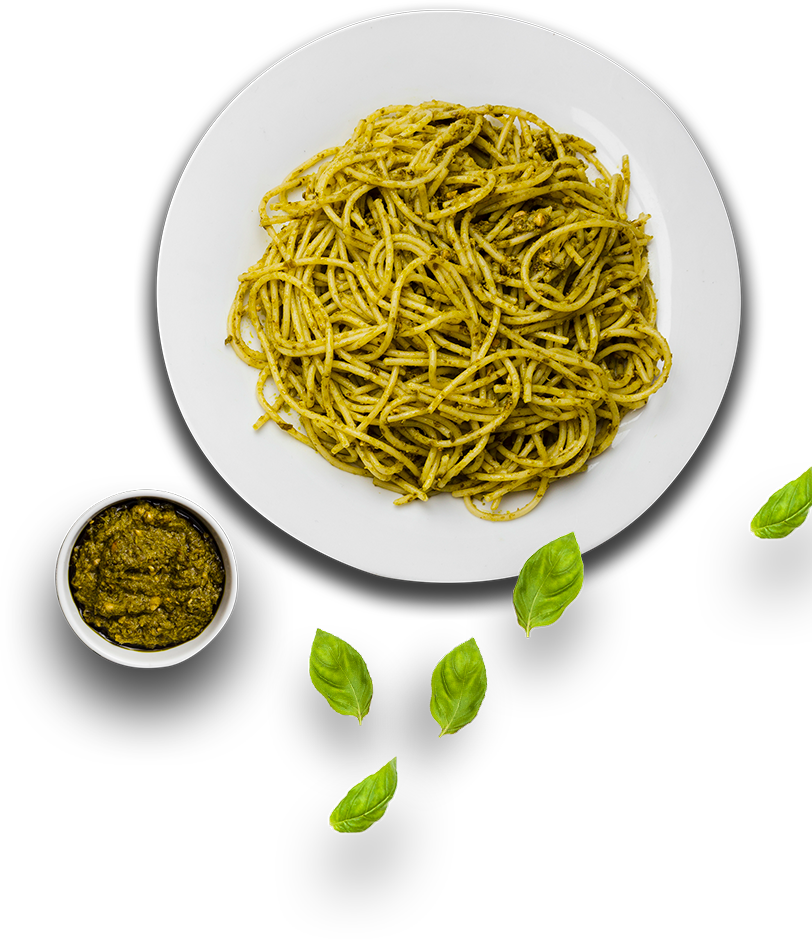
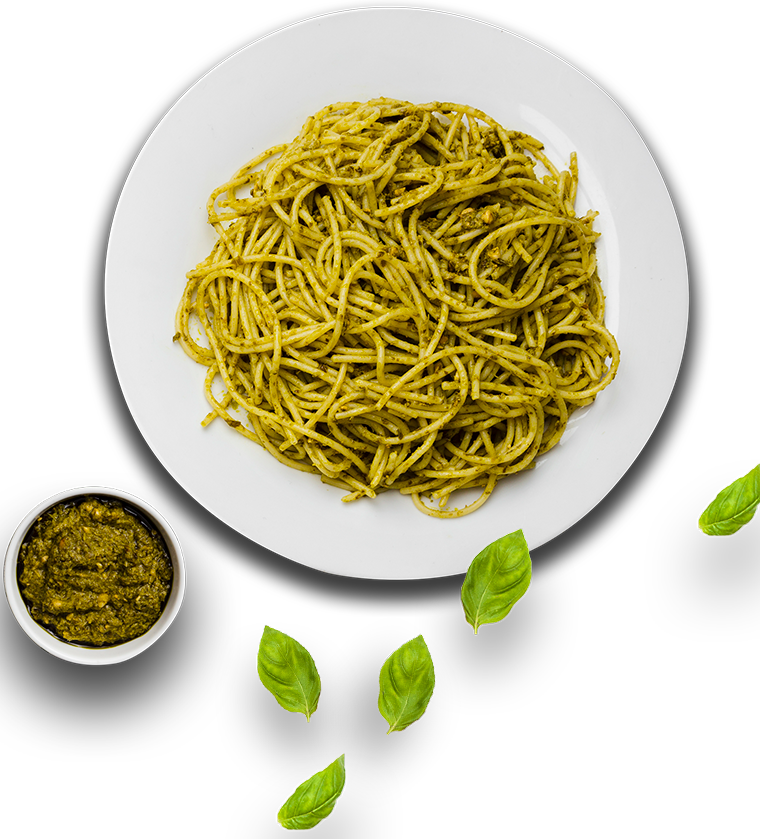
flex-box

diff --git a/index.html b/index.html
@@ -6,6 +6,7 @@
     <meta name="viewport" content="width=device-width, initial-scale=1.0">
 
     <!--config-->
+    <link rel="stylesheet" href="CSS/config/reset.css">
     <link rel="stylesheet" href="CSS/config/normalize.css">
     <!--FONTS-->
     <link rel="preconnect" href="https://fonts.googleapis.com">
@@ -19,15 +20,18 @@
 <body>
     <section class="background-container">
         <div class="header">
-            <ul class="menu">
-                <li class="menu-item"><a href="">HOME</a></li>
-                <li class="menu-item"><a href="">MENU</a></li>
-                <li class="menu-item"><a href="">OUR STORY</a></li>
-                <li class="menu-item"><a href="">CONTACT US</a></li>
-            </ul>
-            <div class="search">
-                <input type="text" class="searchText" placeholder="Search..." />
-                <img src="assets/search.png" id="img-search" alt="search"/>
+            <div class="menu-container">
+                <ul class="menu">
+                    <li class="menu-item"><a href="">HOME</a></li>
+                    <li class="menu-item"><a href="">MENU</a></li>
+                    <li class="menu-item"><a href="">OUR STORY</a></li>
+                    <li class="menu-item"><a href="">CONTACT US</a></li>
+                </ul>
+                <div class="search">
+                    <input type="text" class="searchText" placeholder="Search..." />
+                    <img src="assets/search.png" id="img-search" alt="search"/>
+                </div>
+
             </div>
 
 
@@ -48,10 +52,10 @@
                 <img src="assets/title.png" alt="" class="title">
                 <h1>LOREMIPSUM DOLOR</h1>
                 <button>READ MORE</button>
-                <p>Lorem, ipsum dolor sit amet consectetur adipisicing elit. In animi, nisi ratione incidunt maiores </p>
+                <p>Lorem, ipsum dolor sit amet consectet adipisicing  elit. In animi amet consectetur adipisicing amet consectet adipisicing</p>
             </div>
             <div class="banner-img">
-                <img src="assets/image.png" alt="" class="promo-img">
+                <img src="assets/image.png" width="720" height="860"alt="" class="promo-img">
             </div>
     
         </section>

diff --git a/CSS/header/banner.css b/CSS/header/banner.css
@@ -1,29 +1,31 @@
 
 .background-container{
     margin: 0;
-    height: calc(100vh + 110px);
+    height: calc(100vh + 140px);
     background-image: url(../../assets/backgroundf.png);
 }
 .banner{
+    margin-top:20px;
     display: flex;
     justify-content: space-between;
+    height: calc(100vh + 70px);
 }
 
 .banner .info{
-   
-    padding: 40px;
-    width: 40%;
+    
+    width: 680px;
+    margin-left: 45px;
     display: flex;
     flex-direction: column;
     
 }
 .logo{
     padding-left: 55px;
-    width: 120px;
-    padding-bottom: 20px;
+    width: 132px;
+    padding-bottom: 37px;
 }
 .title{
-  padding-bottom: 60px;
+  padding-bottom: 100px;
   width: 565px;
   
 }
@@ -33,28 +35,32 @@
     letter-spacing: 4px;
     padding-left: 55px;
     color: white;
-    padding-bottom: 25px;
+    padding-bottom: 60px;
 }
 .banner button{
-    margin-bottom: 10px;
+    margin-bottom: 25px;
     margin-left: 55px;
   
 }
 .banner p{
     color: var(--white-opatacity);
     letter-spacing: .12rem;
-    margin-left: 55px;
-    font-size: 17px;
+    margin-left: 52px;
+    font-size: 20px;
     font-weight: 600;
     font-style: italic;
+    padding-right: 50px;
 }
 .banner-img {
     height: calc(100vh + 90px);
     display: flex;
-    align-items: flex-end;
+    align-items: center;
+   
    
 }
 .banner-img .promo-img{
-    width: 670px;
-    
+   width: 650px;
+   padding-bottom: 38px;
+   height: auto;
+   z-index: 555;
 }

diff --git a/CSS/config/reset.css b/CSS/config/reset.css
@@ -1,0 +1,48 @@
+/* http://meyerweb.com/eric/tools/css/reset/ 
+   v2.0 | 20110126
+   License: none (public domain)
+*/
+
+html, body, div, span, applet, object, iframe,
+h1, h2, h3, h4, h5, h6, p, blockquote, pre,
+a, abbr, acronym, address, big, cite, code,
+del, dfn, em, img, ins, kbd, q, s, samp,
+small, strike, strong, sub, sup, tt, var,
+b, u, i, center,
+dl, dt, dd, ol, ul, li,
+fieldset, form, label, legend,
+table, caption, tbody, tfoot, thead, tr, th, td,
+article, aside, canvas, details, embed, 
+figure, figcaption, footer, header, hgroup, 
+menu, nav, output, ruby, section, summary,
+time, mark, audio, video {
+	margin: 0;
+	padding: 0;
+	border: 0;
+	font-size: 100%;
+	font: inherit;
+	vertical-align: baseline;
+}
+/* HTML5 display-role reset for older browsers */
+article, aside, details, figcaption, figure, 
+footer, header, hgroup, menu, nav, section {
+	display: block;
+}
+body {
+	line-height: 1;
+}
+ol, ul {
+	list-style: none;
+}
+blockquote, q {
+	quotes: none;
+}
+blockquote:before, blockquote:after,
+q:before, q:after {
+	content: '';
+	content: none;
+}
+table {
+	border-collapse: collapse;
+	border-spacing: 0;
+}

diff --git a/CSS/header/header.css b/CSS/header/header.css
@@ -1,24 +1,29 @@
 .header{
-    height: 120px;
+    height: 140px;
+    width: auto;
     display: flex;
-    width: 100%;
     justify-content: flex-end;
+    margin: 0 0 auto;
+}
+.menu-container{
+    display: flex;
     align-items: center;
+    justify-content: flex-end;
 }
 .menu{
-    width: 530px;
+    
     display: flex;
-    justify-content: space-between;
     transition: all .1s;
 }
 .menu-item{
     display: flex;
-    justify-content: space-between;
     font-weight: bolder;
     letter-spacing: .138rem;
+    margin: 0;
 }
 .menu-item a{
     font: bolder;
+    margin-right: 61px;
     font-size: 14px;
     color: white;
     transition: all .5s;
@@ -44,9 +49,8 @@
 .search{
     display: flex;
     justify-content: flex-end;
-    margin-left: 40px;
-    width: 100px;
-    height: 50px;
+    width: 150px;
+    height: 40px;
    
     background-color: white;
     border-radius: 6rem;
